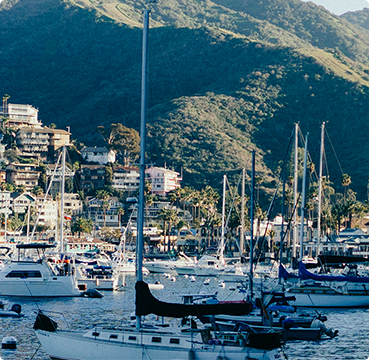
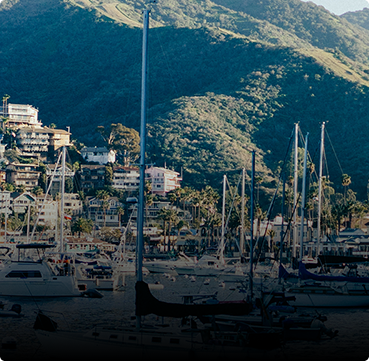
gallery fix

diff --git a/app/index.html b/app/index.html
@@ -49,21 +49,66 @@
 				<p class="secondary__subtitle">Lorem ipsum dolor sit amet, consectetur adipisicing elit, sed do eiusmod tempor incididunt ut labore et</p>
 				<div class="row first-block-img">
 					<div class="col-md-8">
-						<img src="img/galery-1.png" alt="">
+						<div class="img-box">
+							<img src="img/galery-1.png" alt="" class="img-responsive">
+							<div class="overlay">
+								<div class="caption__overlay">
+									<a href="#"><span class="like">730</span></a>
+									<h4>Figueira da Foz</h4>
+									<p>Portugal</p>
+								</div>
+							</div>
+						</div>
 					</div>
 					<div class="col-md-4">
-						<img src="img/galery-2.png" alt="">
+						<div class="img-box">
+							<img src="img/galery-2.png" alt="" class="img-responsive">
+							<div class="overlay">
+								<div class="caption__overlay">
+									<a href="#"><span class="like">621</span></a>
+									<h4>Ibiza</h4>
+									<p>Spain</p>
+								</div>
+							</div>
+						</div>
 					</div>
 				</div>
 				<div class="row">
 					<div class="col-md-4">
-						<img src="img/galery-3.png" alt="">
+						<div class="img-box">
+							<img src="img/galery-3.png" alt="" class="img-responsive">
+							<div class="overlay">
+								<div class="caption__overlay">
+									<a href="#"><span class="like">543</span></a>
+									<h4>Palma de Mallorca</h4>
+									<p>Spain</p>
+								</div>
+							</div>
+						</div>
 					</div>
 					<div class="col-md-4">
-						<img src="img/galery-4.png" alt="">
+						<div class="img-box">
+							<img src="img/galery-4.png" alt="" class="img-responsive">
+							<div class="overlay">
+								<div class="caption__overlay">
+									<a href="#"><span class="like">495</span></a>
+									<h4>Portofino</h4>
+									<p>Italy</p>
+								</div>
+							</div>
+						</div>
 					</div>
 					<div class="col-md-4">
-						<img src="img/galery-5.png" alt="">
+						<div class="img-box">
+							<img src="img/galery-5.png" alt="" class="img-responsive">
+							<div class="overlay">
+								<div class="caption__overlay">
+									<a href="#"><span class="like">402</span></a>
+									<h4>Port Hercules</h4>
+									<p>Monaco</p>
+								</div>
+							</div>
+						</div>
 					</div>
 				</div>
 				<button id="galery-btn" class="uploading-img">EXPLORE MORE DESTINATIONS</button>
@@ -84,16 +129,64 @@
 				<p class="secondary__subtitle">Lorem ipsum dolor sit amet, consectetur adipisicing elit, sed do eiusmod</p>
 				<div class="row">
 					<div class="col-md-6">
-						<img src="img/crynoline-1-pic1.png" alt="">
+						<div class="img-box">
+							<img src="img/g-p-1.png" alt="" class="img-responsive">
+							<div class="overlay">
+								<div class="caption__overlay">
+									<a href="#"><span class="cost">€580 / day</span></a>
+									<h4>Delphia 47</h4>
+									<ul class="location">
+										<li><a href="#" class="map"><i class="fa fa-map-marker" aria-hidden="true"></i>Gdańsk, Poland</a></li>
+										<li><a href="#" class="offer">8 Berths</a></li>
+									</ul>
+								</div>
+							</div>
+						</div>
 					</div>
 					<div class="col-md-6">
-						<img src="img/20048-3300983.png" alt="">
+						<div class="img-box">
+							<img src="img/g-p-2.png" alt="" class="img-responsive">
+							<div class="overlay">
+								<div class="caption__overlay">
+									<a href="#"><span class="cost">€950 / day</span></a>
+									<h4>Sense 55</h4>
+									<ul class="location">
+										<li><a href="#" class="map"><i class="fa fa-map-marker" aria-hidden="true"></i>Portofino, Italy</a></li>
+										<li><a href="#" class="offer">12 Berths</a></li>
+									</ul>
+								</div>
+							</div>
+						</div>
 					</div>
 					<div class="col-md-6">
-						<img src="img/cr51-exterior-1.png" alt="">
+						<div class="img-box">
+							<img src="img/g-p-3.png" alt="" class="img-responsive">
+							<div class="overlay">
+								<div class="caption__overlay">
+									<a href="#"><span class="cost">€820 / day</span></a>
+									<h4>Crusier 51</h4>
+									<ul class="location">
+										<li><a href="#" class="map"><i class="fa fa-map-marker" aria-hidden="true"></i>Palma de Mallorca, Spain</a></li>
+										<li><a href="#" class="offer">10 Berths</a></li>
+									</ul>
+								</div>
+							</div>
+						</div>
 					</div>
 					<div class="col-md-6">
-						<img src="img/cruiser41s.png" alt="">
+						<div class="img-box">
+							<img src="img/g-p-4.png" alt="" class="img-responsive">
+							<div class="overlay">
+								<div class="caption__overlay">
+									<a href="#"><span class="cost">€400 / day</span></a>
+									<h4>Crusier 41S</h4>
+									<ul class="location">
+										<li><a href="#" class="map"><i class="fa fa-map-marker" aria-hidden="true"></i>Lisbon, Portugald</a></li>
+										<li><a href="#" class="offer">8 Berths</a></li>
+									</ul>
+								</div>
+							</div>
+						</div>
 					</div>
 				</div>
 				<button id="galery-btn" class="uploading-img">EXPLORE MORE DESTINATIONS</button>

diff --git a/app/css/main.css b/app/css/main.css
@@ -59,8 +59,8 @@ img {
   max-width: 100%;
   height: auto; }
 
-.wrap-container {
-  width: 90%;
+.wrap-container, .container {
+  width: 95%;
   margin: 0 auto; }
 
 /*!
@@ -6063,6 +6063,8 @@ h1#logo img {
   min-height: 950px; }
   .galery .uploading-img {
     margin: 100px auto 80px auto; }
+  .galery .secondary__subtitle {
+    padding-bottom: 85px; }
 
 .secondary__title {
   color: #343435;
@@ -6074,8 +6076,66 @@ h1#logo img {
   font: 400 16px/30px "OpenSans", sans-serif;
   text-align: center; }
 
-.first-block-img {
-  margin: 85px 0 30px 0; }
+.like {
+  display: block;
+  width: 80px;
+  height: 40px;
+  color: #ffffff;
+  font: 700 16px/40px "OpenSans", sans-serif;
+  -webkit-border-radius: 5px;
+          border-radius: 5px;
+  background-color: #e7434e;
+  text-align: center; }
+  .like:before {
+    float: left;
+    display: block;
+    content: '';
+    width: 16px;
+    height: 16px;
+    background: url("../../img/sailboat.png") no-repeat;
+    margin: 10px 0 0 15px; }
+
+.img-box {
+  margin-top: 30px;
+  position: relative;
+  top: 0;
+  left: 0; }
+  .img-box img:hover {
+    position: relative;
+    z-index: 100;
+    -webkit-transform: scale(1.1, 1.1);
+        -ms-transform: scale(1.1, 1.1);
+            transform: scale(1.1, 1.1);
+    -webkit-transition: all .5s ease-in-out .2s;
+    transition: all .5s ease-in-out .2s; }
+
+.overlay {
+  position: absolute;
+  left: 0;
+  top: 0;
+  padding: 30px 0 0 25px;
+  z-index: 122; }
+  .overlay .caption__overlay {
+    min-height: 200px;
+    display: -webkit-box;
+    display: -webkit-flex;
+    display: -ms-flexbox;
+    display: flex;
+    -webkit-box-orient: vertical;
+    -webkit-box-direction: normal;
+    -webkit-flex-flow: column wrap;
+        -ms-flex-flow: column wrap;
+            flex-flow: column wrap;
+    -webkit-align-content: space-berween;
+        -ms-flex-line-pack: space-berween;
+            align-content: space-berween; }
+    .overlay .caption__overlay h4 {
+      padding-top: 50px;
+      color: #ffffff;
+      font: 400 30px "Raleway", sans-serif; }
+    .overlay .caption__overlay p {
+      color: #ffffff;
+      font: 400 20px "Raleway", sans-serif; }
 
 .question__suggestion {
   width: 100%;
@@ -6083,9 +6143,9 @@ h1#logo img {
   padding: 185px 0 160px 0;
   text-align: center;
   text-transform: uppercase;
-  background: -webkit-gradient(linear, left top, left bottom, from(rgba(0, 0, 0, 0.6)), to(rgba(0, 0, 0, 0.6))), url("../../img/photo-14.png") no-repeat;
-  background: -webkit-linear-gradient(rgba(0, 0, 0, 0.6), rgba(0, 0, 0, 0.6)), url("../../img/photo-14.png") no-repeat;
-  background: linear-gradient(rgba(0, 0, 0, 0.6), rgba(0, 0, 0, 0.6)), url("../../img/photo-14.png") no-repeat;
+  background: -webkit-gradient(linear, left top, left bottom, from(rgba(0, 0, 0, 0.6)), to(rgba(0, 0, 0, 0.6))), url("../../img/photo-14.png") no-repeat center center;
+  background: -webkit-linear-gradient(rgba(0, 0, 0, 0.6), rgba(0, 0, 0, 0.6)), url("../../img/photo-14.png") no-repeat center center;
+  background: linear-gradient(rgba(0, 0, 0, 0.6), rgba(0, 0, 0, 0.6)), url("../../img/photo-14.png") no-repeat center center;
   background-size: cover; }
   .question__suggestion .secondary-btn {
     margin-top: 85px; }
@@ -6094,6 +6154,23 @@ h1#logo img {
   padding: 100px 0 85px 0; }
   .galery__price .uploading-img {
     margin-top: 100px; }
+  .galery__price .cost {
+    display: block;
+    width: 105px;
+    height: 42px;
+    color: #ffffff;
+    font: 700 16px/40px "OpenSans", sans-serif;
+    -webkit-border-radius: 5px;
+            border-radius: 5px;
+    background-color: #e7434e;
+    text-align: center; }
+
+.location li {
+  display: inline-block; }
+
+.location a {
+  color: #ffffff;
+  font: 400 16px/40px "OpenSans", sans-serif; }
 
 .footer {
   width: 100%;
@@ -6139,7 +6216,8 @@ h1#logo img {
   -webkit-border-radius: 5px;
           border-radius: 5px;
   background-color: #e7434e;
-  border: none; }
+  border: none;
+  text-transform: uppercase; }
   .secondary-btn:hover {
     border: 1px solid rgba(38, 38, 38, 0.3);
     background-color: #ffffff;

diff --git a/app/sass/partials/_galery.scss b/app/sass/partials/_galery.scss
@@ -1,8 +1,8 @@
 .galery {
 	width: 100%;
 	min-height: 950px;
-
 	.uploading-img {margin: 100px auto 80px auto;}
+	.secondary__subtitle {padding-bottom: 85px;}
 }
 .secondary__title {
 	color: $primary_font_color;
@@ -14,6 +14,58 @@
 	font: 400 16px/30px $secondary_font;
 	text-align: center;
 }
-.first-block-img {
-	margin: 85px 0 30px 0;
+.like {
+	display: block;
+	width: 80px;
+	height: 40px;
+	color: $secondary_font_color;
+	font: 700 16px/40px $secondary_font;
+	border-radius: 5px;
+	background-color: #e7434e;
+	text-align: center;
+	&:before {
+		float: left;
+		display: block;
+		content: '';
+		width: 16px;
+		height: 16px;
+		background: url('../../img/sailboat.png')no-repeat;
+		margin: 10px 0 0 15px;
+	}
+}
+.img-box {
+	margin-top: 30px;
+	position: relative;
+	top: 0;
+	left: 0;
+	img {
+		&:hover {
+			position: relative;
+			z-index: 100;
+			transform: scale(1.1, 1.1);
+			transition: all .5s ease-in-out .2s;
+		}
+	}
+}
+.overlay {
+	position: absolute;
+	left: 0;
+	top: 0;
+	padding: 30px 0 0 25px;
+	z-index: 122;
+	.caption__overlay {
+		min-height: 200px;
+		display: flex;
+		flex-flow: column wrap;
+		align-content: space-berween;
+		h4 {
+			padding-top: 50px;
+			color: $secondary_font_color;
+			font: 400 30px $primary_font;
+		}
+		p {
+			color: $secondary_font_color;
+			font: 400 20px $primary_font;
+		}
+	}
 }

diff --git a/app/sass/partials/_galery-price.scss b/app/sass/partials/_galery-price.scss
@@ -1,4 +1,22 @@
 .galery__price {
 	padding: 100px 0 85px 0;
 	.uploading-img {margin-top: 100px;}
+	.cost {
+		display: block;
+		width: 105px;
+		height: 42px;
+		color: $secondary_font_color;
+		font: 700 16px/40px $secondary_font;
+		border-radius: 5px;
+		background-color: #e7434e;
+		text-align: center;
+	}
+
+}
+.location {
+	li {display: inline-block;}
+	a {
+		color: $secondary_font_color;
+		font: 400 16px/40px $secondary_font;
+	}
 }

diff --git a/app/sass/partials/_question.scss b/app/sass/partials/_question.scss
@@ -4,7 +4,7 @@
 	padding: 185px 0 160px 0;
 	text-align: center;
 	text-transform: uppercase;
-	background: linear-gradient(rgba(0,0,0, .6), rgba(0,0,0, .6)), url('../../img/photo-14.png')no-repeat;
+	background: linear-gradient(rgba(0,0,0, .6), rgba(0,0,0, .6)), url('../../img/photo-14.png')no-repeat center center;
 	background-size: cover;
 	.secondary-btn {margin-top: 85px;}
 }

diff --git a/app/sass/components/_buttons.scss b/app/sass/components/_buttons.scss
@@ -21,6 +21,7 @@
 	border-radius: 5px;
 	background-color: #e7434e;
 	border: none;
+	text-transform: uppercase;
 	&:hover {
 		border: 1px solid rgba(38, 38, 38, 0.3);
 		background-color: $secondary_font_color;

diff --git a/app/sass/base/_base.scss b/app/sass/base/_base.scss
@@ -6,7 +6,7 @@ img {
 	max-width: 100%;
 	height: auto;
 }
-.wrap-container {
-	width: 90%;
+.wrap-container, .container {
+	width: 95%;
 	margin: 0 auto;
 }
